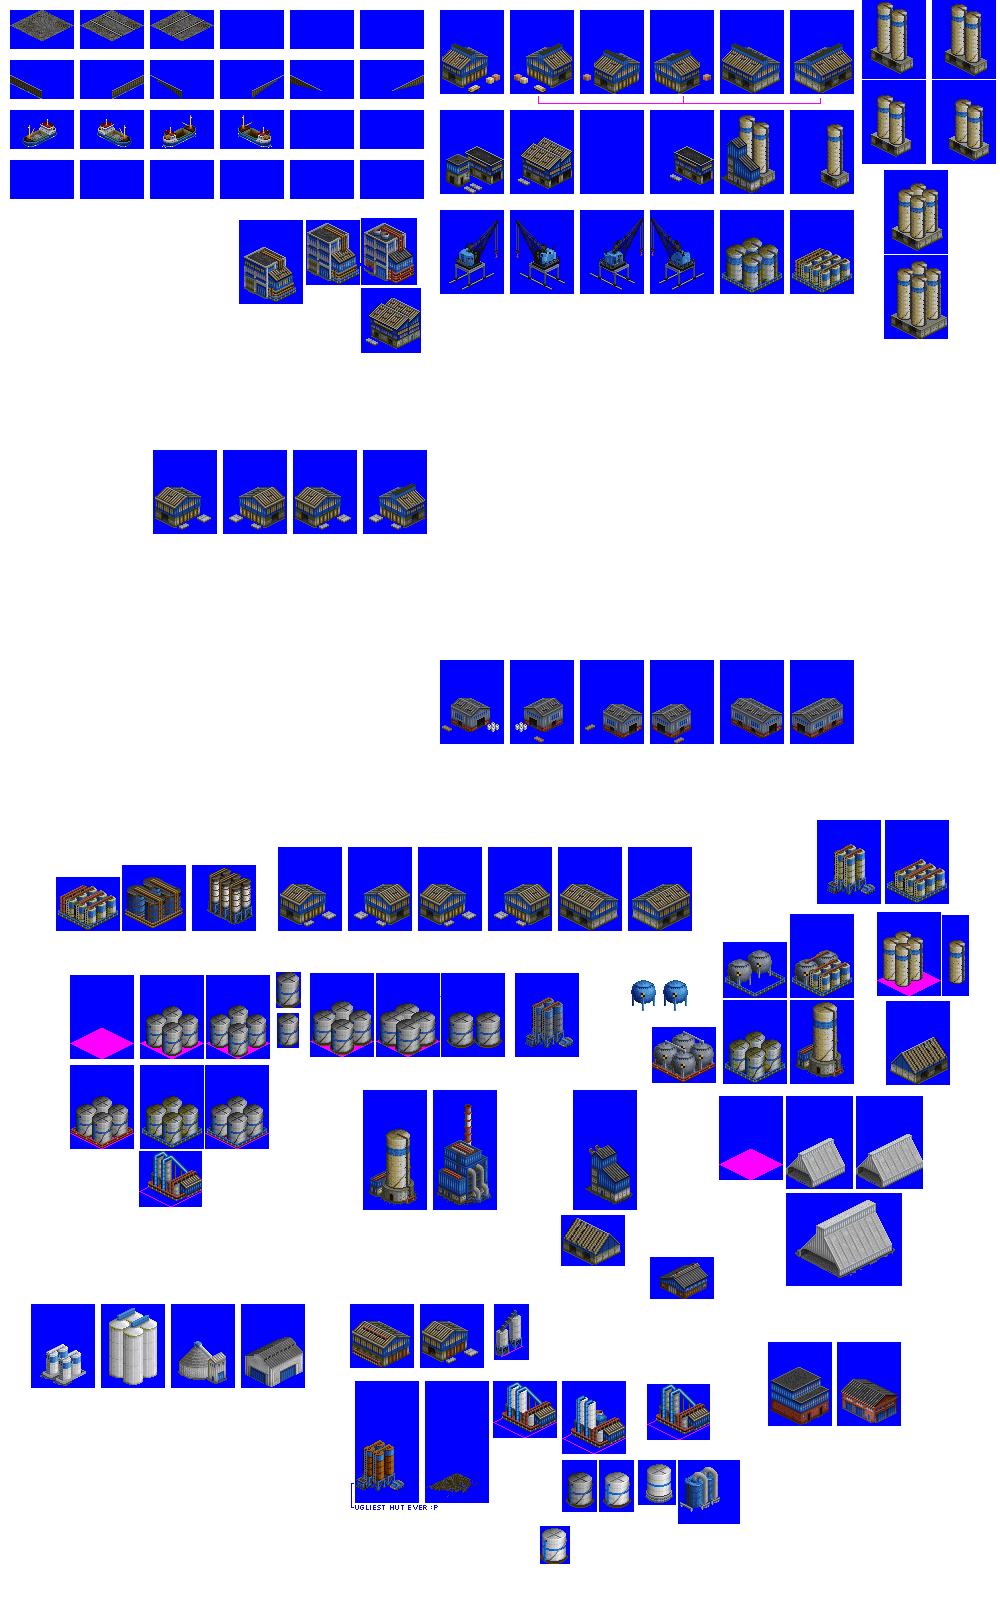
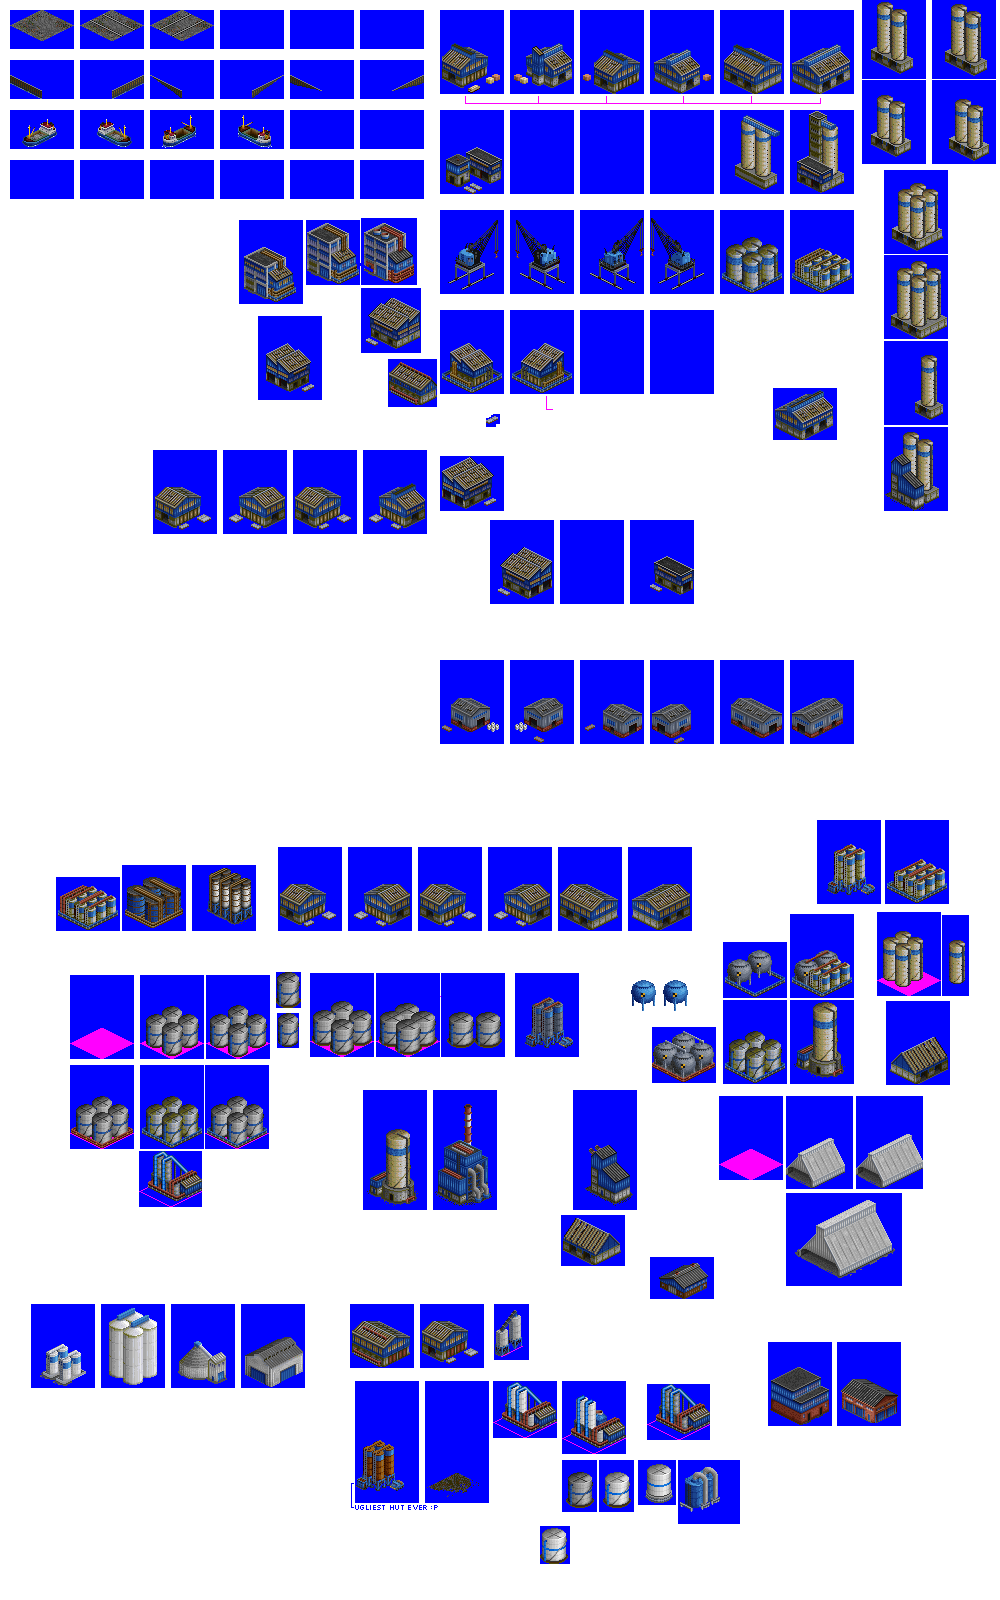
Change: more WIP on Wharf sprites

diff --git a/src/industries/wharf.py b/src/industries/wharf.py
@@ -119,6 +119,12 @@ spriteset_warehouse_nw_se = industry.add_spriteset(
 spriteset_warehouse_ne_sw = industry.add_spriteset(
     sprites=[(790, 10, 64, 84, -31, -61)],
 )
+spriteset_shed_nw_se = industry.add_spriteset(
+    sprites=[(440, 310, 64, 84, -31, -61)],
+)
+spriteset_shed_ne_sw = industry.add_spriteset(
+    sprites=[(510, 310, 64, 84, -31, -61)],
+)
 spriteset_tanks_medium = industry.add_spriteset(
     sprites=[(720, 210, 64, 84, -31, -61)],
 )
@@ -448,6 +454,30 @@ industry.add_magic_spritelayout(
 )
 industry.add_magic_spritelayout(
     type="jetty_auto_orient_to_coast_direction",
+    base_id="port_spritelayout_shed_1_auto_orient",
+    tile="port_tile_1",
+    config={
+        "ground_sprite": spriteset_ground_empty,  # should always be empty for this magic spritelayout
+        "foundation_sprites": [spriteset_jetty_ne_sw, spriteset_jetty_se_nw],
+        "jetty_top_sprites": [spriteset_concrete],
+        "building_sprites": {
+            "se": [
+                spriteset_shed_nw_se,
+            ],
+            "sw": [
+                spriteset_shed_ne_sw,
+            ],
+            "nw": [
+                spriteset_shed_nw_se,
+            ],
+            "ne": [
+                spriteset_shed_ne_sw,
+            ],
+        },
+    },
+)
+industry.add_magic_spritelayout(
+    type="jetty_auto_orient_to_coast_direction",
     base_id="wharf_spritelayout_water_ship_1_auto_orient",
     tile="wharf_tile_1",
     config={
@@ -500,10 +530,10 @@ industry.add_industry_jetty_layout(
         (0, 0, "wharf_spritelayout_coast_building"),
         (0, 1, "wharf_spritelayout_tanks_1_auto_orient"),
         (0, 2, "wharf_spritelayout_tanks_2_auto_orient"),
-        (0, 3, "wharf_spritelayout_warehouse_half_auto_orient"),
-        (0, 4, "wharf_spritelayout_silo_2_auto_orient"),
-        (0, 5, "wharf_spritelayout_silo_1_auto_orient"),
-        (0, 6, "wharf_spritelayout_warehouse_half_auto_orient"),
+        (0, 3, "port_spritelayout_shed_1_auto_orient"),
+        (0, 4, "wharf_spritelayout_silo_1_auto_orient"),
+        (0, 5, "wharf_spritelayout_silo_2_auto_orient"),
+        (0, 6, "port_spritelayout_shed_1_auto_orient"),
         (0, 7, "spritelayout_null_water"),
         # additional spacing at end of jetty (for better clearance in map edge context), only one tile needed for this
         (0, 8, "spritelayout_null_water"),
@@ -538,22 +568,22 @@ industry.add_industry_jetty_layout(
         (1, 2, "wharf_spritelayout_warehouse_full_auto_orient"),
         (1, 3, "wharf_spritelayout_crane_rails_orthogonal_auto_orient"),
         (1, 5, "wharf_spritelayout_warehouse_full_auto_orient"),
-        (1, 6, "wharf_spritelayout_crane_rails_orthogonal_auto_orient"),
+        (1, 6, "wharf_spritelayout_crane_orthogonal_auto_orient"),
         (1, 7, "spritelayout_null_water"),
         # ensure spacing from coast, to improve map-gen buildabilty
         (2, 2, "wharf_spritelayout_warehouse_full_auto_orient"),
         (2, 3, "wharf_spritelayout_crane_orthogonal_auto_orient"),
         (2, 4, "wharf_spritelayout_water_ship_2_auto_orient"),
         (2, 5, "wharf_spritelayout_warehouse_half_auto_orient"),
-        (2, 6, "wharf_spritelayout_crane_orthogonal_auto_orient"),
+        (2, 6, "wharf_spritelayout_crane_rails_orthogonal_auto_orient"),
         (2, 7, "spritelayout_null_water"),
         (3, 0, "wharf_spritelayout_coast_building"),
-        (3, 1, "wharf_spritelayout_silo_2_auto_orient"),
-        (3, 2, "wharf_spritelayout_silo_1_auto_orient"),
-        (3, 3, "wharf_spritelayout_warehouse_half_auto_orient"),
+        (3, 1, "wharf_spritelayout_silo_1_auto_orient"),
+        (3, 2, "wharf_spritelayout_silo_2_auto_orient"),
+        (3, 3, "port_spritelayout_shed_1_auto_orient"),
         (3, 4, "wharf_spritelayout_tanks_1_auto_orient"),
         (3, 5, "wharf_spritelayout_tanks_2_auto_orient"),
-        (3, 6, "wharf_spritelayout_warehouse_half_auto_orient"),
+        (3, 6, "port_spritelayout_shed_1_auto_orient"),
         (3, 7, "spritelayout_null_water"),
         # additional spacing at end of jetty (for better clearance in map edge context), only one tile needed for this
         (3, 8, "spritelayout_null_water"),
